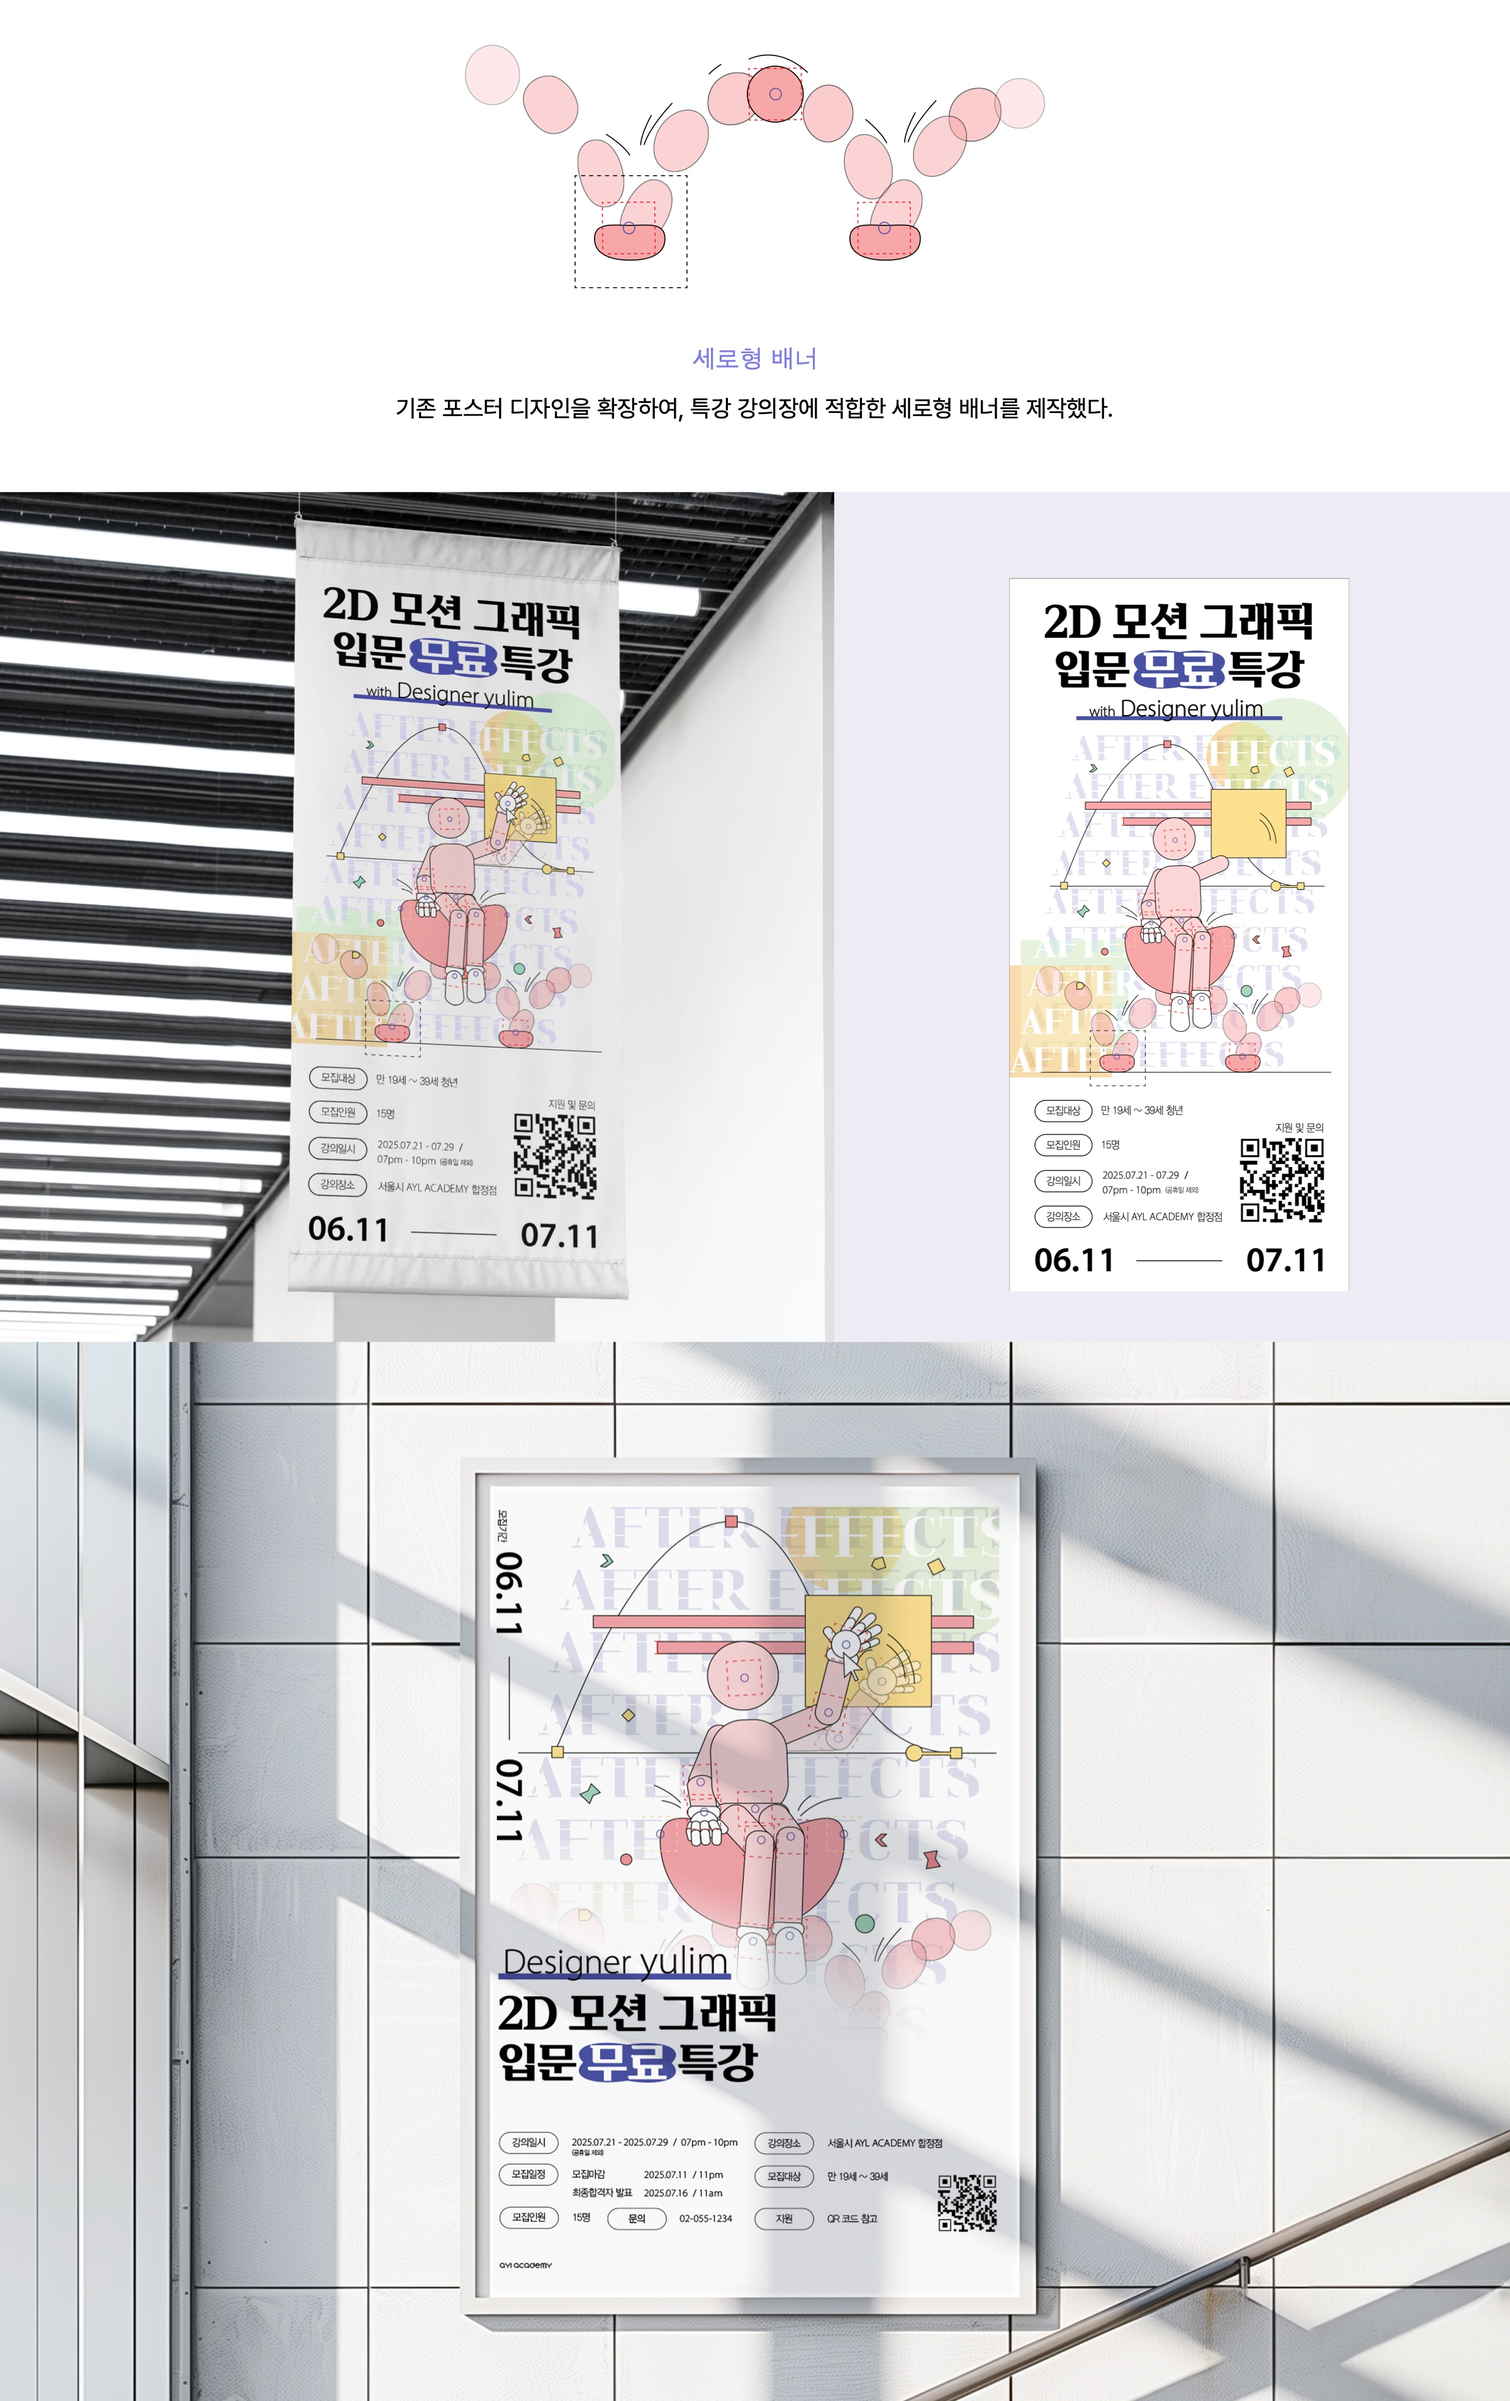
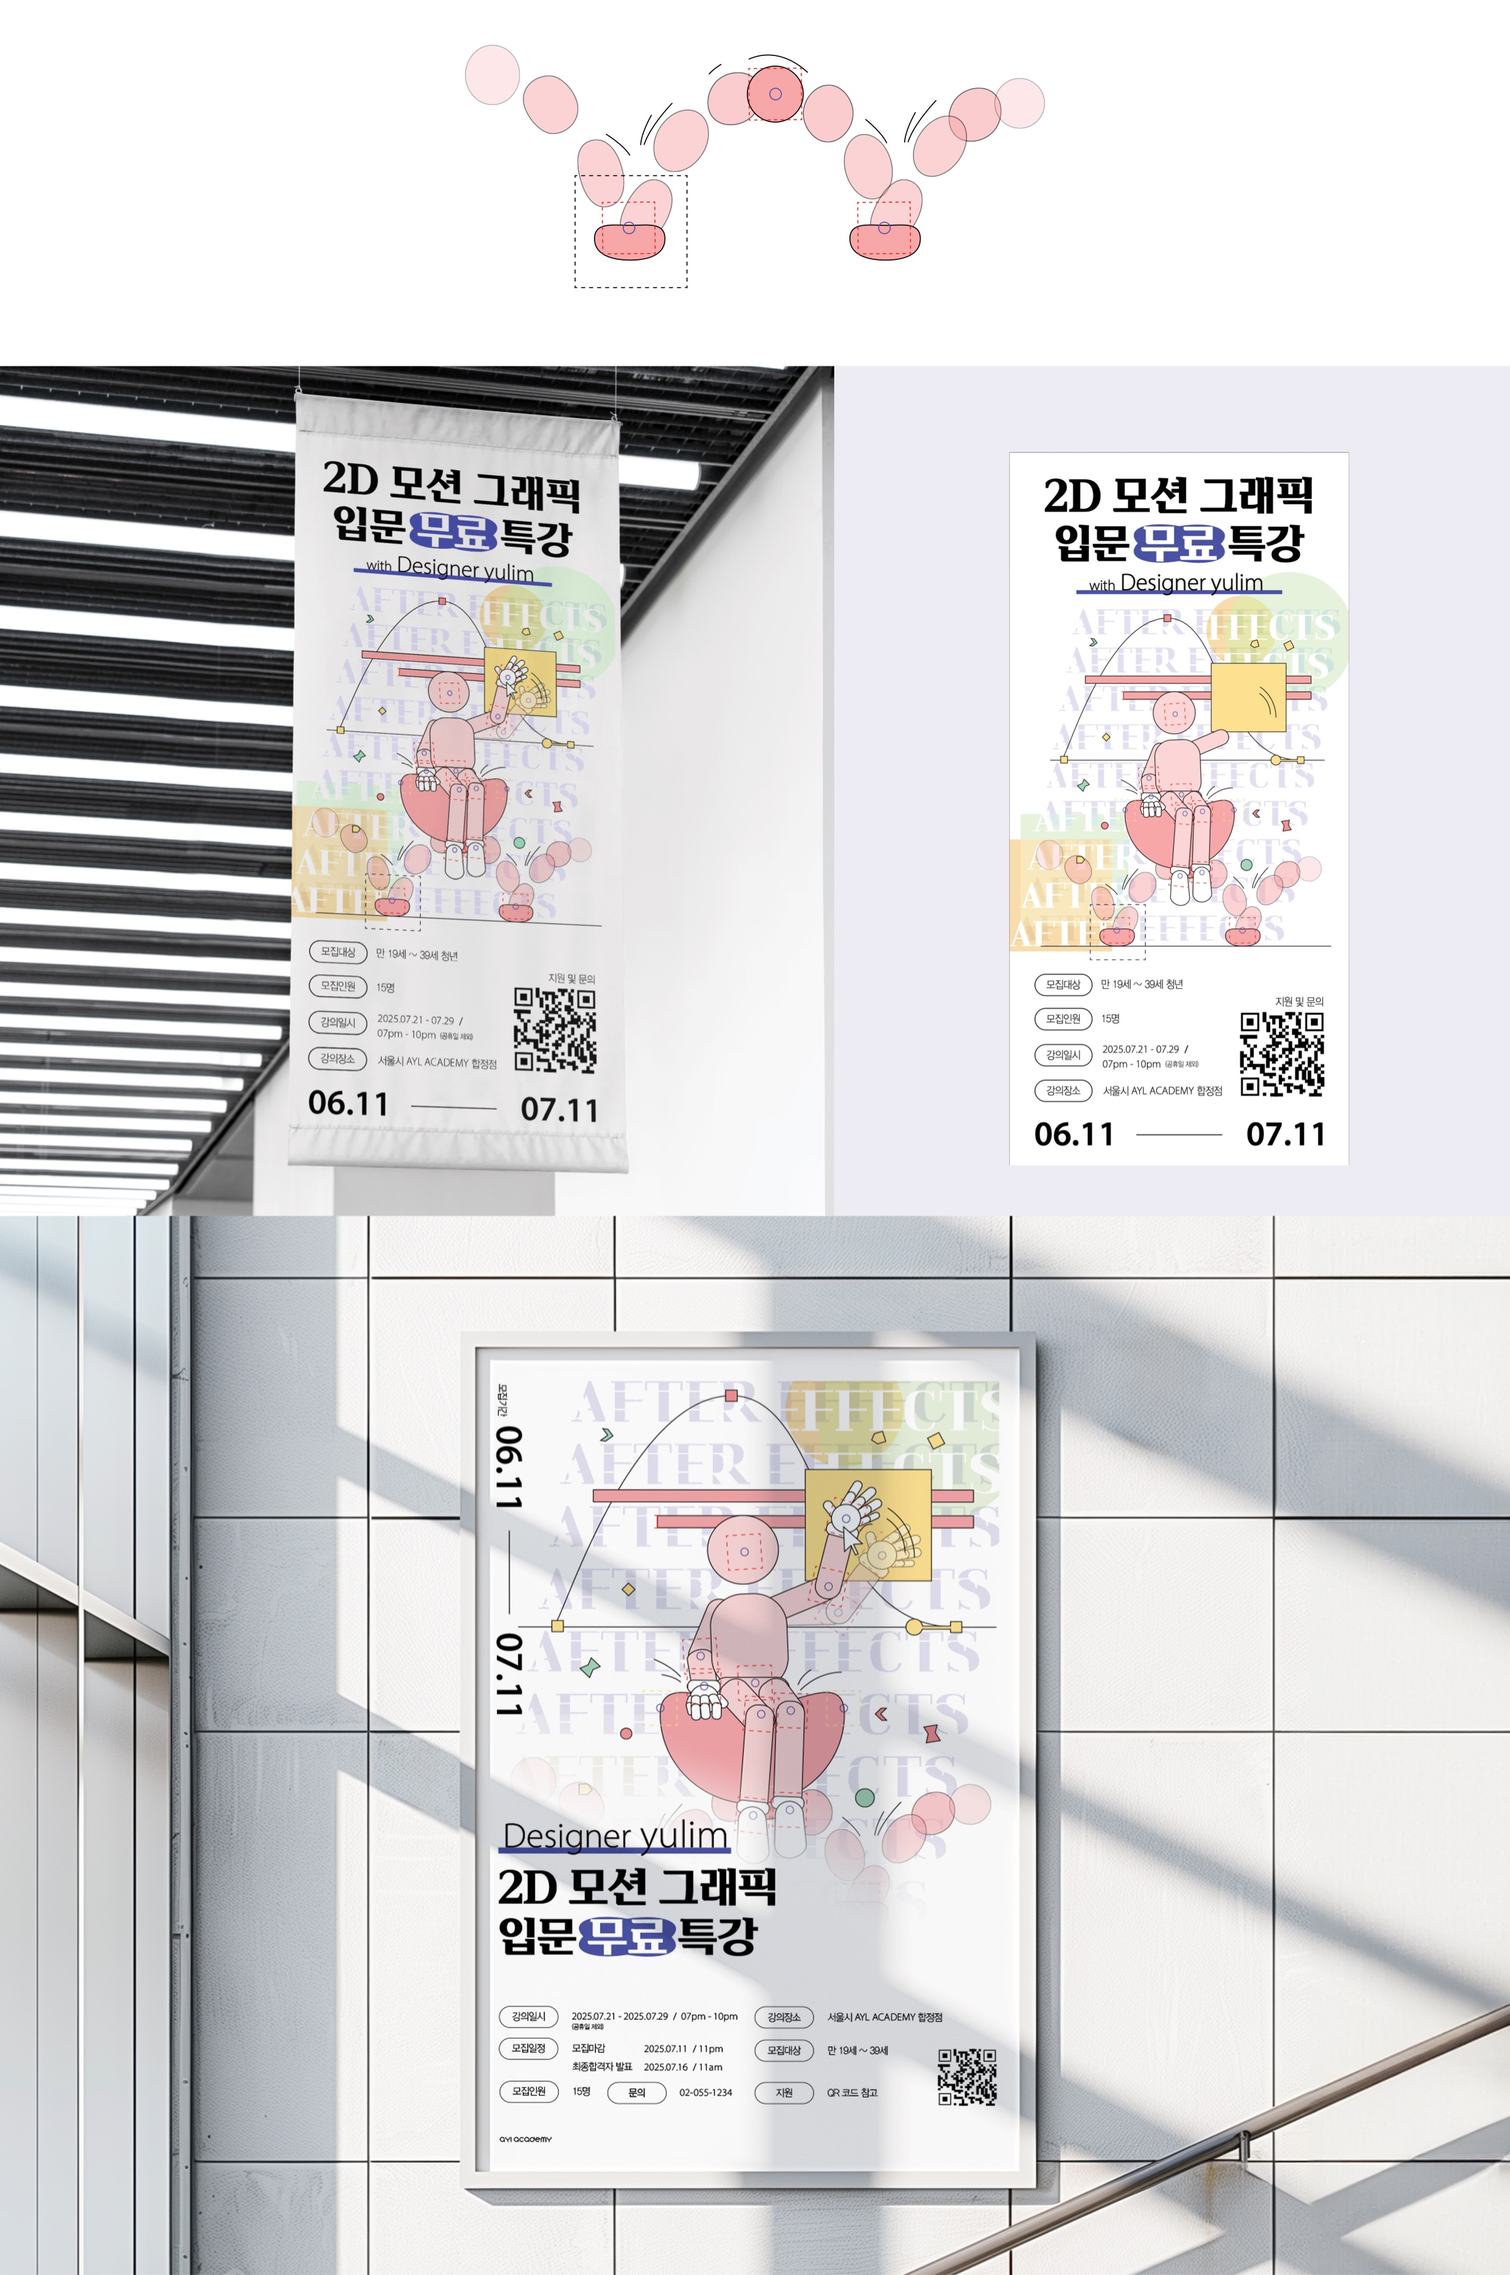
수정

Changed region(s): [[0.0, 0.1239, 1.0, 1.0], [0.3438, 0.0, 0.6875, 0.1239]]

diff --git a/src/guides/MotionLecture.tsx b/src/guides/MotionLecture.tsx
@@ -1,27 +1,28 @@
 import * as React from "react"
 
 // Motion lecture project, using the original layout from the Illustrator file.
-// mo-layout-*.jpg is each artboard with the moving characters removed. Each file in mo-anim/ holds
-// one character as its original vectors, with the animation inside the file, placed by percent.
+// mo-layout-*.jpg is each artboard with the moving characters removed (section captions taken out
+// and their gaps closed up). Each file in mo-anim/ holds one character as its original vectors,
+// with the animation inside the file, placed by percent.
 
 const IMG = "/assets/img/"
 
 const PAGES = [
-    { file: "mo-layout-1", ratio: "1920 / 6779.04", alt: "2D 모션 그래픽 입문 무료 특강 포스터와 리플렛" },
-    { file: "mo-layout-2", ratio: "1920 / 3051.93", alt: "2D 모션 그래픽 입문 무료 특강 세로형 배너" },
+    { file: "mo-layout-1", ratio: "1920 / 6339.04", alt: "2D 모션 그래픽 입문 무료 특강 포스터와 리플렛" },
+    { file: "mo-layout-2", ratio: "1920 / 2891.93", alt: "2D 모션 그래픽 입문 무료 특강 세로형 배너" },
 ]
 
 const LAYERS = [
-    { name: "mo-sit-1", page: 0, left: 52.3952, top: 2.8114, width: 15.6835, height: 6.0263 },
-    { name: "mo-sit-2", page: 0, left: 70.2656, top: 58.6676, width: 7.7083, height: 2.9635 },
-    { name: "mo-sit-3", page: 0, left: 80.4313, top: 29.8992, width: 10.6063, height: 4.0764 },
-    { name: "mo-sit-4", page: 1, left: 78.6744, top: 32.1255, width: 6.2085, height: 5.2984 },
-    { name: "mo-swing-5", page: 0, left: 40.4129, top: 68.4507, width: 26.6846, height: 6.3203 },
-    { name: "mo-swing-6", page: 0, left: 64.5636, top: 0, width: 35.4364, height: 9.1797 },
-    { name: "mo-swing-7", page: 0, left: 21.8817, top: 43.782, width: 54.6898, height: 7.3047 },
-    { name: "mo-dangle-1", page: 0, left: 62.5283, top: 70.9844, width: 15.0683, height: 6.3581 },
-    { name: "mo-dangle-2", page: 0, left: 1.6335, top: 62.2346, width: 21.061, height: 8.8858 },
-    { name: "mo-walk-1", page: 0, left: 63.8802, top: 79.6248, width: 34.7969, height: 4.6068 },
+    { name: "mo-sit-1", page: 0, left: 52.3952, top: 3.0065, width: 15.6835, height: 6.4446 },
+    { name: "mo-sit-2", page: 0, left: 70.2656, top: 55.7987, width: 7.7083, height: 3.1692 },
+    { name: "mo-sit-3", page: 0, left: 80.4313, top: 27.7152, width: 10.6063, height: 4.3593 },
+    { name: "mo-sit-4", page: 1, left: 78.6744, top: 28.3703, width: 6.2085, height: 5.5915 },
+    { name: "mo-swing-5", page: 0, left: 40.4129, top: 66.2608, width: 26.6846, height: 6.759 },
+    { name: "mo-swing-6", page: 0, left: 64.5636, top: 0, width: 35.4364, height: 9.8169 },
+    { name: "mo-swing-7", page: 0, left: 21.8817, top: 42.5616, width: 54.6898, height: 7.8117 },
+    { name: "mo-dangle-1", page: 0, left: 62.5283, top: 68.9704, width: 15.0683, height: 6.7994 },
+    { name: "mo-dangle-2", page: 0, left: 1.6335, top: 59.6133, width: 21.061, height: 9.5026 },
+    { name: "mo-walk-1", page: 0, left: 63.8802, top: 78.2105, width: 34.7969, height: 4.9266 },
 ]
 
 export default function MotionLecture() {

diff --git a/assets/js/guides.js b/assets/js/guides.js
@@ -3,83 +3,83 @@ const addPropertyControls = () => {}; const ControlType = new Proxy({}, { get: (
 const IMG = "/assets/img/";
 const PAGES = [{
   file: "mo-layout-1",
-  ratio: "1920 / 6779.04",
+  ratio: "1920 / 6339.04",
   alt: "2D 모션 그래픽 입문 무료 특강 포스터와 리플렛"
 }, {
   file: "mo-layout-2",
-  ratio: "1920 / 3051.93",
+  ratio: "1920 / 2891.93",
   alt: "2D 모션 그래픽 입문 무료 특강 세로형 배너"
 }];
 const LAYERS = [{
   name: "mo-sit-1",
   page: 0,
   left: 52.3952,
-  top: 2.8114,
+  top: 3.0065,
   width: 15.6835,
-  height: 6.0263
+  height: 6.4446
 }, {
   name: "mo-sit-2",
   page: 0,
   left: 70.2656,
-  top: 58.6676,
+  top: 55.7987,
   width: 7.7083,
-  height: 2.9635
+  height: 3.1692
 }, {
   name: "mo-sit-3",
   page: 0,
   left: 80.4313,
-  top: 29.8992,
+  top: 27.7152,
   width: 10.6063,
-  height: 4.0764
+  height: 4.3593
 }, {
   name: "mo-sit-4",
   page: 1,
   left: 78.6744,
-  top: 32.1255,
+  top: 28.3703,
   width: 6.2085,
-  height: 5.2984
+  height: 5.5915
 }, {
   name: "mo-swing-5",
   page: 0,
   left: 40.4129,
-  top: 68.4507,
+  top: 66.2608,
   width: 26.6846,
-  height: 6.3203
+  height: 6.759
 }, {
   name: "mo-swing-6",
   page: 0,
   left: 64.5636,
   top: 0,
   width: 35.4364,
-  height: 9.1797
+  height: 9.8169
 }, {
   name: "mo-swing-7",
   page: 0,
   left: 21.8817,
-  top: 43.782,
+  top: 42.5616,
   width: 54.6898,
-  height: 7.3047
+  height: 7.8117
 }, {
   name: "mo-dangle-1",
   page: 0,
   left: 62.5283,
-  top: 70.9844,
+  top: 68.9704,
   width: 15.0683,
-  height: 6.3581
+  height: 6.7994
 }, {
   name: "mo-dangle-2",
   page: 0,
   left: 1.6335,
-  top: 62.2346,
+  top: 59.6133,
   width: 21.061,
-  height: 8.8858
+  height: 9.5026
 }, {
   name: "mo-walk-1",
   page: 0,
   left: 63.8802,
-  top: 79.6248,
+  top: 78.2105,
   width: 34.7969,
-  height: 4.6068
+  height: 4.9266
 }];
 function MotionLecture() {
   return React.createElement("div", {
